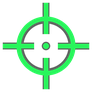
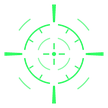
准星光标重做：去掉深色描边、线条收细、补齐刻度与内环细节

diff --git a/matrix.css b/matrix.css
@@ -329,7 +329,7 @@ a:focus-visible{outline-color:#b5edc2}
    green-glow variant over anything interactive. Touch devices keep
    the native cursor so tap targets are unaffected. */
 @media (hover:hover) and (pointer:fine){
- body{cursor:url(assets/cover/cursor-aim.png?v=3) 23 23,auto;cursor:image-set(url(assets/cover/cursor-aim.png?v=3) 1x,url(assets/cover/cursor-aim-2x.png?v=3) 2x) 23 23,auto}
- a,button,summary,label,select,[role=button],[tabindex]:not([tabindex="-1"]),.pill-choice,.project-tile,.matrix-title-link,.motion-toggle,.stage-subject,.mx-motion,.cmp,.matrix-visual.depth3d.live-on{cursor:url(assets/cover/cursor-aim-hot.png?v=3) 23 23,pointer;cursor:image-set(url(assets/cover/cursor-aim-hot.png?v=3) 1x,url(assets/cover/cursor-aim-hot-2x.png?v=3) 2x) 23 23,pointer}
+ body{cursor:url(assets/cover/cursor-aim.png?v=4) 27 27,auto;cursor:image-set(url(assets/cover/cursor-aim.png?v=4) 1x,url(assets/cover/cursor-aim-2x.png?v=4) 2x) 27 27,auto}
+ a,button,summary,label,select,[role=button],[tabindex]:not([tabindex="-1"]),.pill-choice,.project-tile,.matrix-title-link,.motion-toggle,.stage-subject,.mx-motion,.cmp,.matrix-visual.depth3d.live-on{cursor:url(assets/cover/cursor-aim-hot.png?v=4) 27 27,pointer;cursor:image-set(url(assets/cover/cursor-aim-hot.png?v=4) 1x,url(assets/cover/cursor-aim-hot-2x.png?v=4) 2x) 27 27,pointer}
  input:not([type=button]):not([type=submit]),textarea{cursor:text}
 }
